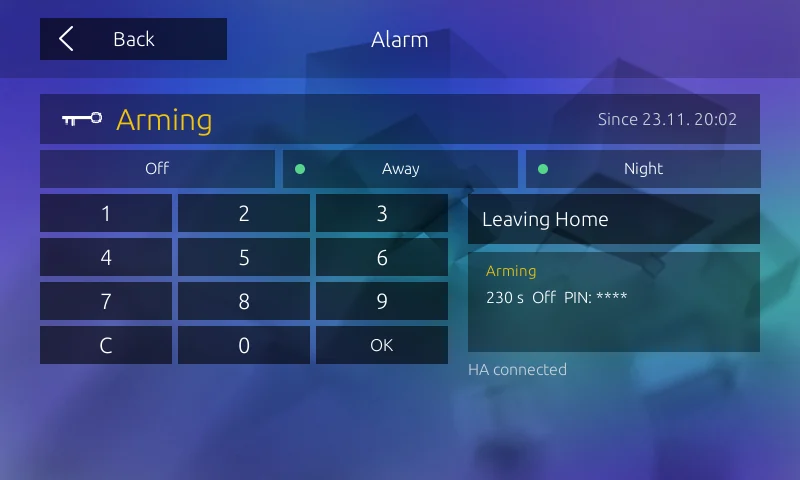
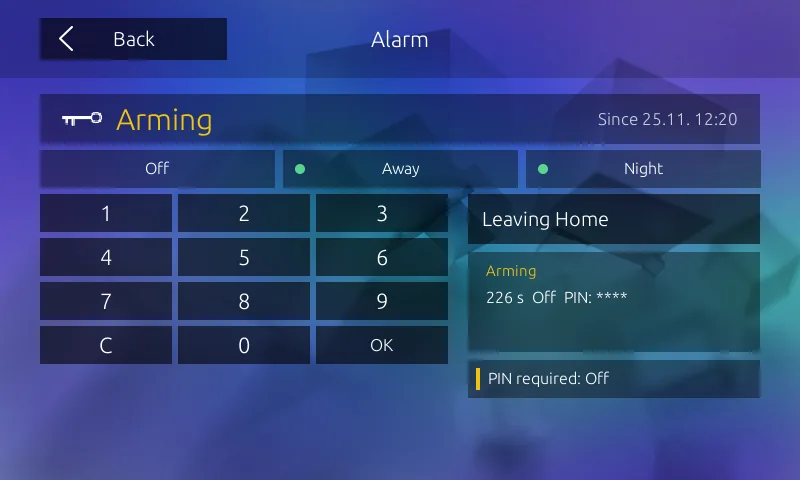
docs: renew the display pictures as renders of the 2.9.3 pages
Thirteen display pictures no longer matched the pages: the Settings tab
list still said "Home Assistant" instead of "Integration", the alarm
status line had no panel, the agenda showed the old row layout, the
energy pages lacked the Balance view button, and the lights, light
detail and media player pictures were photographs of a much older
version with a pager instead of the favourites bar.

All thirteen are now renders, not station captures: the display pages
of this branch, applied by qml_patch.sh to a copy of the 1.7.19 skin,
run on the firmware's own Qt 4.8 libraries under qemu-arm, in English,
with the wallpaper security.jpg, grabbed at 800x480 and stored as WebP.
The page data comes from the integration's own dashboard code fed with
example entities, appointments, energy values and consumer names; the
two camera pictures are the example views used before. The Generals tab
picture is the vendor's own Settings page inside the vendor frame.

Alt texts follow the new content. The legal notes and the README no
longer call the display pictures captures. The Home Assistant pictures
are unchanged.

Checked with tests/test_user_documentation.py (17 passed),
scripts/check_repo.py and ruff. Nothing was seen on a station.

diff --git a/docs/display.md b/docs/display.md
@@ -161,7 +161,7 @@ reserved for the status page.
 
 <table>
   <tr>
-    <td align="center"><strong>Favourites bar</strong><br><img src="images/readme/display-start-en.webp" alt="Start page with the favourites bar along the bottom edge" width="360"></td>
+    <td align="center"><strong>Favourites bar</strong><br><img src="images/readme/display-start-en.webp" alt="Start page with status, weather and the favourites bar along the bottom edge" width="360"></td>
     <td align="center"><strong>More: the other pages</strong><br><img src="images/readme/display-more-en.webp" alt="The list of further pages that More opens" width="360"></td>
   </tr>
 </table>
@@ -184,8 +184,8 @@ pages uses the data already loaded and requests nothing new.
     <td align="center"><strong>Light overview</strong><br><img src="images/readme/display-lights-en.webp" alt="Eight light tiles with state, brightness and on-off controls" width="360"></td>
   </tr>
   <tr>
-    <td align="center"><strong>Brightness and color</strong><br><img src="images/readme/display-light-detail-en.webp" alt="Light detail page with brightness slider and color presets" width="360"></td>
-    <td align="center"><strong>Media player</strong><br><img src="images/readme/display-media-player-en.webp" alt="Media player with current program, pause, volume, mute and shuffle" width="360"></td>
+    <td align="center"><strong>Brightness and color</strong><br><img src="images/readme/display-light-detail-en.webp" alt="Light detail page with brightness slider and color presets; the list scrolls" width="360"></td>
+    <td align="center"><strong>Media player</strong><br><img src="images/readme/display-media-player-en.webp" alt="Media player with current program, previous, pause and next, volume and mute; further controls follow below" width="360"></td>
   </tr>
 </table>
 
@@ -344,7 +344,7 @@ between them; all views off hides the page and keeps its settings.
 
 ## Agenda
 
-<p align="center"><img src="images/readme/display-appointments-en.webp" alt="Agenda page with two upcoming events" width="480"></p>
+<p align="center"><img src="images/readme/display-appointments-en.webp" alt="Agenda page with four upcoming events and the scroll bar for the further ones" width="480"></p>
 
 Turn on **Show Agenda** and select up to eight Home Assistant calendars. The
 page shows up to five ongoing or upcoming events within the next seven days,
@@ -393,7 +393,7 @@ action, does not wake the display and never changes the page by itself.
 
 ## Alarm Page (Alarmo)
 
-<p align="center"><img src="images/readme/display-alarmo-en.webp" alt="Alarm page while arming: Away and Night modes, PIN keypad with a PIN being entered, countdown and a Leaving Home shortcut" width="480"></p>
+<p align="center"><img src="images/readme/display-alarmo-en.webp" alt="Alarm page while arming: Away and Night modes, PIN keypad with a PIN being entered, countdown, a Leaving Home shortcut and the status line below it" width="480"></p>
 
 The Alarm page is a subpage in the station's original blue design, opened by
 the Alarm button on the home page. It is not one of the numbered pages. Set it
@@ -474,7 +474,7 @@ maintenance operations the agent has enabled are offered.
 <table>
   <tr>
     <td align="center"><strong>Integration tab</strong><br><img src="images/readme/display-settings-home-assistant-en.webp" alt="Station Settings, Integration tab: connection status block, the switches Status messages, Keep page open in standby, Page change and SSH, and the buttons Reboot station and Remove agent" width="360"></td>
-    <td align="center"><strong>Generals: Tone buttons</strong><br><img src="images/readme/display-settings-tone-buttons-en.webp" alt="Station Settings, Generals tab with the Tone buttons switch" width="360"></td>
+    <td align="center"><strong>Generals: Tone buttons</strong><br><img src="images/readme/display-settings-tone-buttons-en.webp" alt="Station Settings, Generals tab with the Tone buttons switch; the tab list ends with Integration" width="360"></td>
   </tr>
 </table>
 

diff --git a/docs/legal.md b/docs/legal.md
@@ -41,25 +41,19 @@ cd64c8c333ae2cfde2f32a8681054c1a5755a2edafadec1183501cd774088834
 
 ## No firmware or APK payloads
 
-Documentation illustrations under `docs/images/readme/` come from the
-maintainer's own C300X and Home Assistant test instance. None of them are
-extracted firmware assets, and their values are examples.
+Documentation illustrations under `docs/images/readme/` show the maintainer's
+own setup or renders of the integration's pages. None of them are extracted
+firmware assets, and their values are examples.
 
-- `display-lights-en`, `-light-detail-en` and `-media-player-en` are device
-  photographs with AI-assisted English localization and color matching,
-  display-only crops and perspective correction. They are not pixel-exact.
-- `display-start-en`, `-general-en`, `-more-en`, `-camera-en`,
-  `-appointments-en`, `-energy-flow-en`, `-energy-power-en` and
-  `-energy-consumers-en` are read-only captures of the display framebuffer
-  from 2026-11-20. Their German texts were replaced by the display's English
-  texts, and private content by examples: appointments and consumer names are
-  example text, and the two camera pictures are AI-generated views of an
-  entrance and a garden, supplied by the maintainer, cropped and softened.
-- `display-c300x-dashboard-en`, `-alarmo-en`, `-settings-home-assistant-en`
-  and `-settings-tone-buttons-en` are read-only framebuffer captures from
-  2026-11-23, taken with the station set to English and left unchanged.
-- `display-home-stock-en` is a read-only framebuffer capture from 2026-11-24,
-  taken with the station set to English and left unchanged.
+- The `display-*-en` images are renders, not captures from a station. The
+  display pages of the release run on the station's own Qt 4.8 libraries with
+  the skin of firmware 1.7.19 in an emulator on a PC, in English, 800 x 480
+  pixels. Station pages such as Settings and the home page are the station's
+  own pages with the integration's changes applied.
+- The contents of the rendered pages are examples: the integration builds the
+  page data from example entities, appointments, energy values and consumer
+  names. The two camera pictures are AI-generated views of an entrance and a
+  garden, supplied by the maintainer, cropped and softened.
 - The `ha-*-en` images are browser captures of the Home Assistant test
   instance from 2026-11-23, in English and dark mode. The picture in the
   doorbell card is an earlier visitor image from the maintainer's own station,

diff --git a/README.md b/README.md
@@ -110,8 +110,8 @@ Details: [Live picture and talkback](docs/user-guide.md#live-picture-and-talkbac
   </tr>
 </table>
 
-All screenshots come from a C300X and its Home Assistant; camera pictures and
-some values are examples, see [legal notes](docs/legal.md#no-firmware-or-apk-payloads).
+The card is a capture from Home Assistant; the station pages are renders of
+the display pages with example values, see [legal notes](docs/legal.md#no-firmware-or-apk-payloads).
 The card shows an earlier visitor image. Entities and pages depend on the
 enabled options.
 
